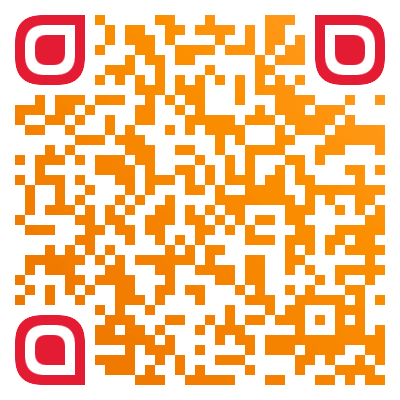
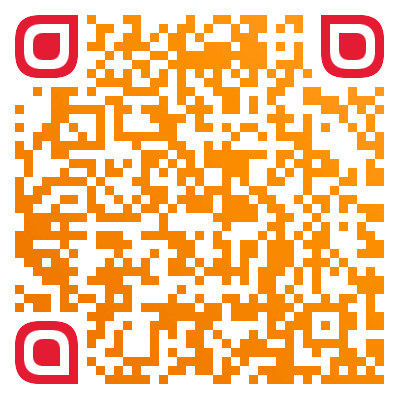
完善 海报制作

diff --git a/rose_blossom/index.html b/rose_blossom/index.html
@@ -2,7 +2,7 @@
 <html>
 <head>
     <meta charset="UTF-8" />
-    <title>永远爱你</title>
+    <title>送给最漂亮的你</title>
 
     <link rel="stylesheet" href="css/style.css" />
 
